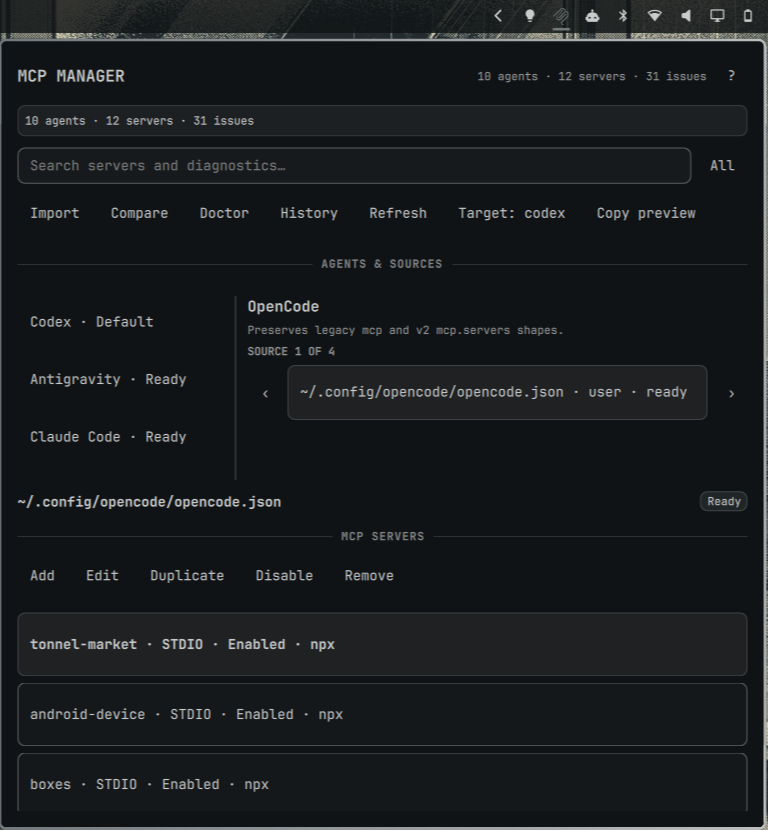
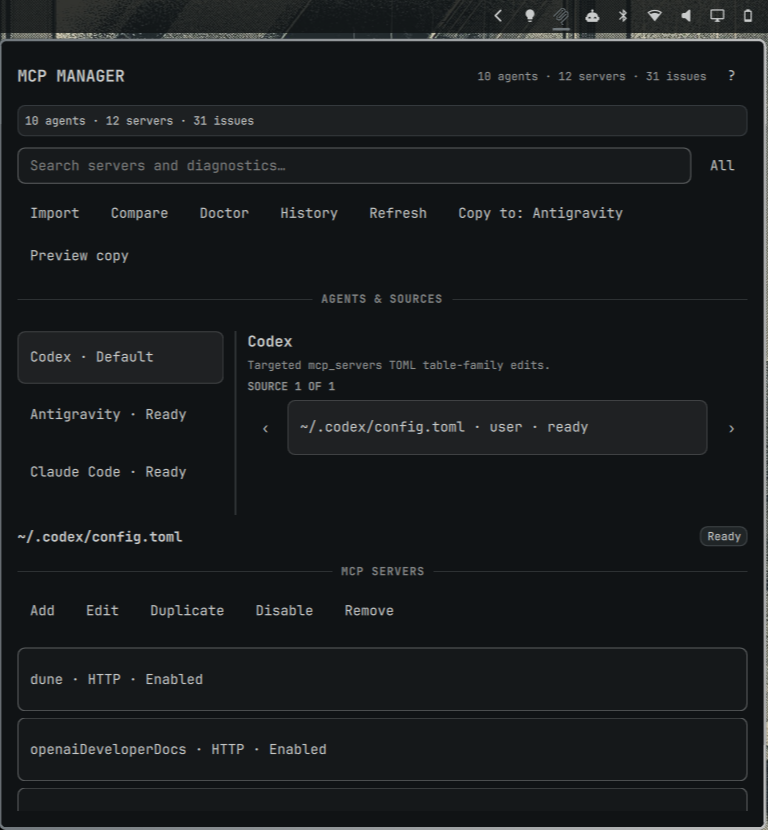
docs: update version 1.0.4 preview

diff --git a/docs/marketplace-submission.md b/docs/marketplace-submission.md
@@ -28,7 +28,7 @@ atomic replacement, bounded backups, readback verification, and drift refusal.
 Unsupported or malformed sources remain visible with explicit read-only
 diagnostics.
 
-Version 1.0.3 was exercised in the real Omarchy 4.0.0-1 shell on Hyprland
+Version 1.0.4 was exercised in the real Omarchy 4.0.0-1 shell on Hyprland
 workspace 3. The live scan displayed 10 configured agents and 12 redacted MCP
 servers; the MCP bar mark, section hierarchy, keyboard agent navigation, and
 OpenCode server selection were verified without applying a mutation.
